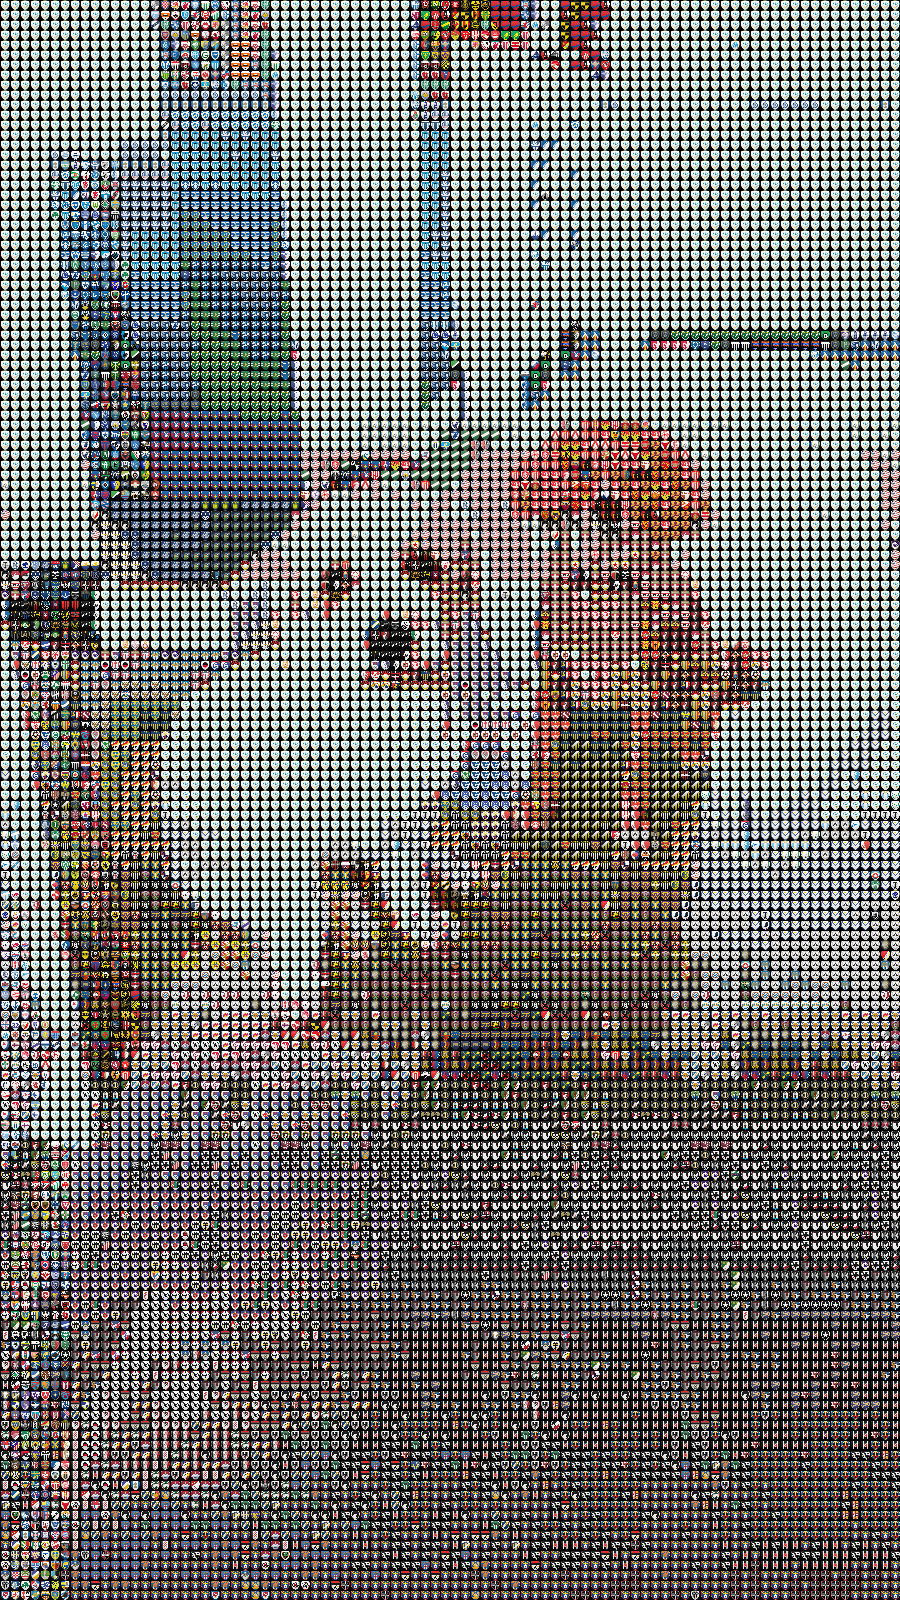
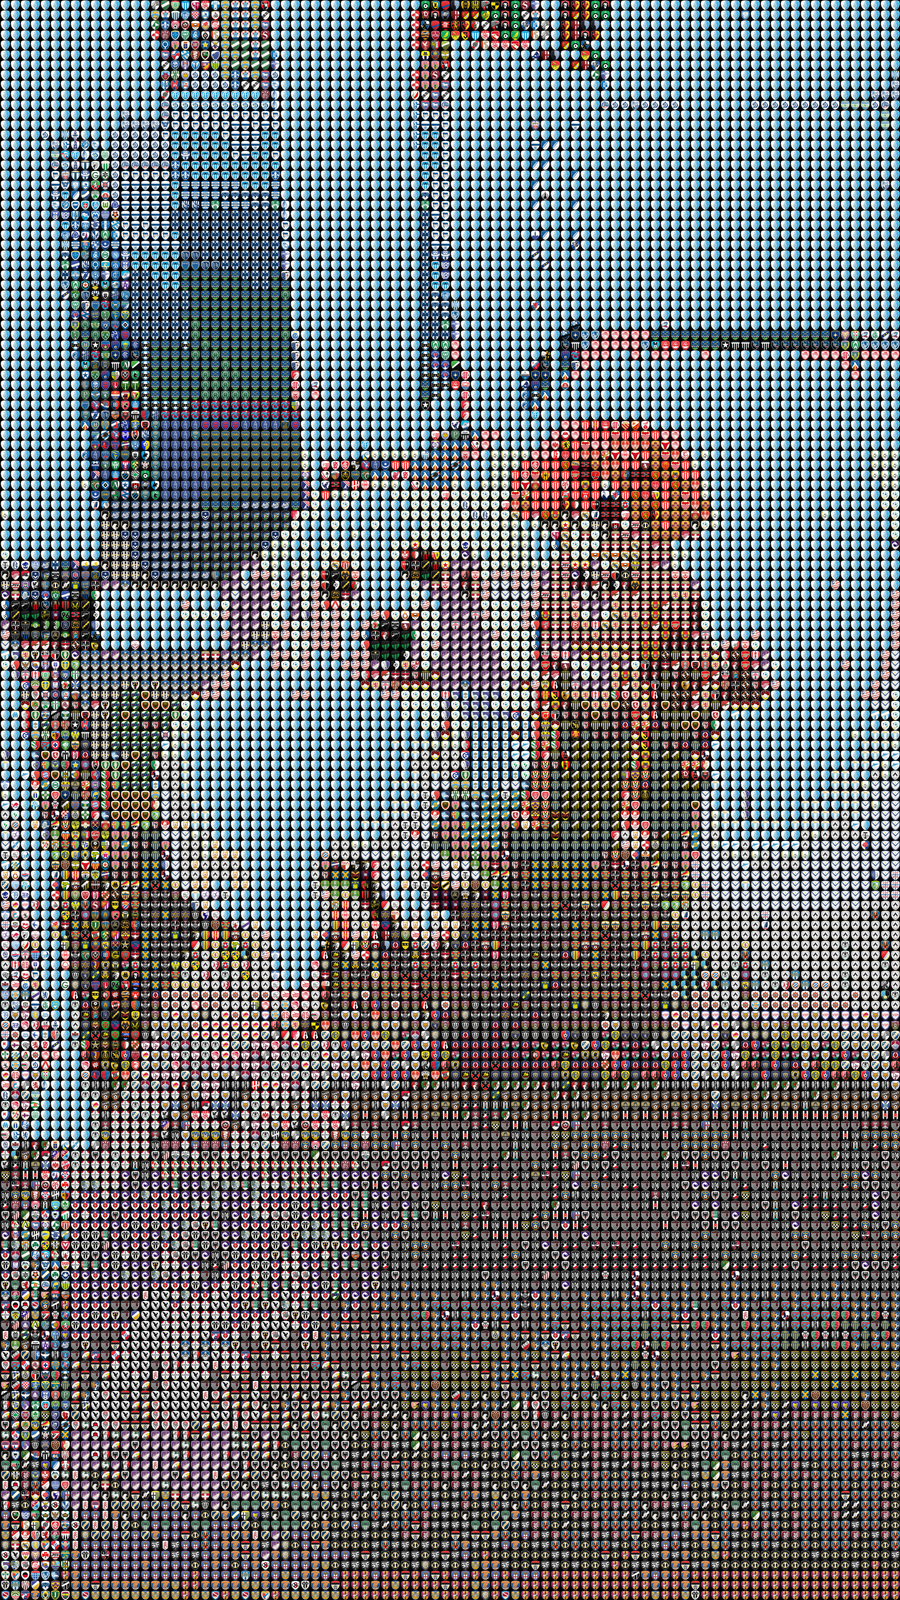
0052 Rendering uses pre generated bitmaps

diff --git a/Mosaic/Mosaic.WebUI/ImageMosaicService/ImageProcessing.cs b/Mosaic/Mosaic.WebUI/ImageMosaicService/ImageProcessing.cs
@@ -224,10 +224,16 @@ namespace ImageMosaicService
                 }
             }); // Parallel.For
 
-            foreach (var image in imageSq)
-            {
-                image.Bitmap = resizeFiles.Where(x => x.Item1 == image.Image).Select(y => y.Item2).First();
-            }
+            //var to = 0;
+            //foreach (var i in resizeFiles) 
+            //{
+            //    to += i.Item2.Width;
+            //}
+
+            //foreach (var image in imageSq)
+            //{
+            //    image.Bitmap = resizeFiles.Where(x => x.Item1 == image.Image).Select(y => y.Item2).First();
+            //}
 
             // Getting stuck in an extremely large loop here - bottleneck
             // For dog test example it is a 120 * 160 loop
@@ -242,18 +248,23 @@ namespace ImageMosaicService
                         infoTR = imageInfos[GetBestImageIndex(colorMap[x, y], x, y, random, Target.TR)];
                         infoBL = imageInfos[GetBestImageIndex(colorMap[x, y], x, y, random, Target.BL)];
                         infoBR = imageInfos[GetBestImageIndex(colorMap[x, y], x, y, random, Target.BR)];
-                        RenderTile(colorMap, colourBlended, g, infoTL, imageSq, x, y, Target.TL);
-                        RenderTile(colorMap, colourBlended, g, infoTR, imageSq, x, y, Target.TR);
-                        RenderTile(colorMap, colourBlended, g, infoBL, imageSq, x, y, Target.BL);
-                        RenderTile(colorMap, colourBlended, g, infoBR, imageSq, x, y, Target.BR);
+                        RenderTile(colorMap, colourBlended, g, infoTL, imageSq, x, y, Target.TL, resizeFiles);
+                        RenderTile(colorMap, colourBlended, g, infoTR, imageSq, x, y, Target.TR, resizeFiles);
+                        RenderTile(colorMap, colourBlended, g, infoBL, imageSq, x, y, Target.BL, resizeFiles);
+                        RenderTile(colorMap, colourBlended, g, infoBR, imageSq, x, y, Target.BR, resizeFiles);
                     }
                     else
                     {
-                        RenderTile(colorMap, colourBlended, g, info[x, y], imageSq, x, y, Target.Whole);
+                        RenderTile(colorMap, colourBlended, g, info[x, y], imageSq, x, y, Target.Whole, resizeFiles);
                     }
                 }
             }
 
+            var bi = resizeFiles.Select(x => x.Item2).ToList();
+            foreach (var bs in bi)
+            {
+                bs.Dispose();
+            }
 
             return new Mosaic()
             {
@@ -264,24 +275,37 @@ namespace ImageMosaicService
 
         // Pass target into method
         private void RenderTile(MosaicTileColour[,] colorMap, bool colourBlended, Graphics g, ImageInfo info, List<MosaicTile> imageSq, 
-                                int x, int y, Target target)
+                                int x, int y, Target target, List<Tuple<string, Bitmap>> resizeFiles)
         {
             Rectangle destRect, srcRect;
 
-            using (Bitmap source = imageSq.Where(i => i.Image == info.Path).Select(b => b.Bitmap).First())
-            {            
-                // Draws stored image for coord x, y for given height and width
-                destRect = CreateQuadrantRectangle(x * tileSize.Width, y * tileSize.Height, tileSize.Width, tileSize.Height, target);
-                srcRect = new Rectangle(0, 0, source.Width, source.Height);
+            //// using disposes the bitmap that source points to so only works once
+            //using (Bitmap source = resizeFiles.Where(i => i.Item1 == info.Path).Select(b => b.Item2).First())
+            //{            
+            //    // Draws stored image for coord x, y for given height and width
+            //    destRect = CreateQuadrantRectangle(x * tileSize.Width, y * tileSize.Height, tileSize.Width, tileSize.Height, target);
+            //    srcRect = new Rectangle(0, 0, source.Width, source.Height);
 
-                g.DrawImage(source, destRect, srcRect, GraphicsUnit.Pixel);
-                source.Dispose();
-                if (colourBlended)
-                {
-                    var tileAvgColour = colorMap[x, y].AverageWhole;
-                    var colourBlendedValue = Color.FromArgb(128, tileAvgColour.R, tileAvgColour.G, tileAvgColour.B);
-                    g.FillRectangle(new SolidBrush(colourBlendedValue), x * tileSize.Width, y * tileSize.Height, tileSize.Width, tileSize.Height);
-                }
+            //    g.DrawImage(source, destRect, srcRect, GraphicsUnit.Pixel);
+            //    if (colourBlended)
+            //    {
+            //        var tileAvgColour = colorMap[x, y].AverageWhole;
+            //        var colourBlendedValue = Color.FromArgb(128, tileAvgColour.R, tileAvgColour.G, tileAvgColour.B);
+            //        g.FillRectangle(new SolidBrush(colourBlendedValue), x * tileSize.Width, y * tileSize.Height, tileSize.Width, tileSize.Height);
+            //    }
+            //}
+
+            var source = resizeFiles.Where(i => i.Item1 == info.Path).Select(b => b.Item2).First();
+            // Draws stored image for coord x, y for given height and width
+            destRect = CreateQuadrantRectangle(x * tileSize.Width, y * tileSize.Height, tileSize.Width, tileSize.Height, target);
+            srcRect = new Rectangle(0, 0, source.Width, source.Height);
+
+            g.DrawImage(source, destRect, srcRect, GraphicsUnit.Pixel);
+            if (colourBlended)
+            {
+                var tileAvgColour = colorMap[x, y].AverageWhole;
+                var colourBlendedValue = Color.FromArgb(128, tileAvgColour.R, tileAvgColour.G, tileAvgColour.B);
+                g.FillRectangle(new SolidBrush(colourBlendedValue), x * tileSize.Width, y * tileSize.Height, tileSize.Width, tileSize.Height);
             }
         }
 
